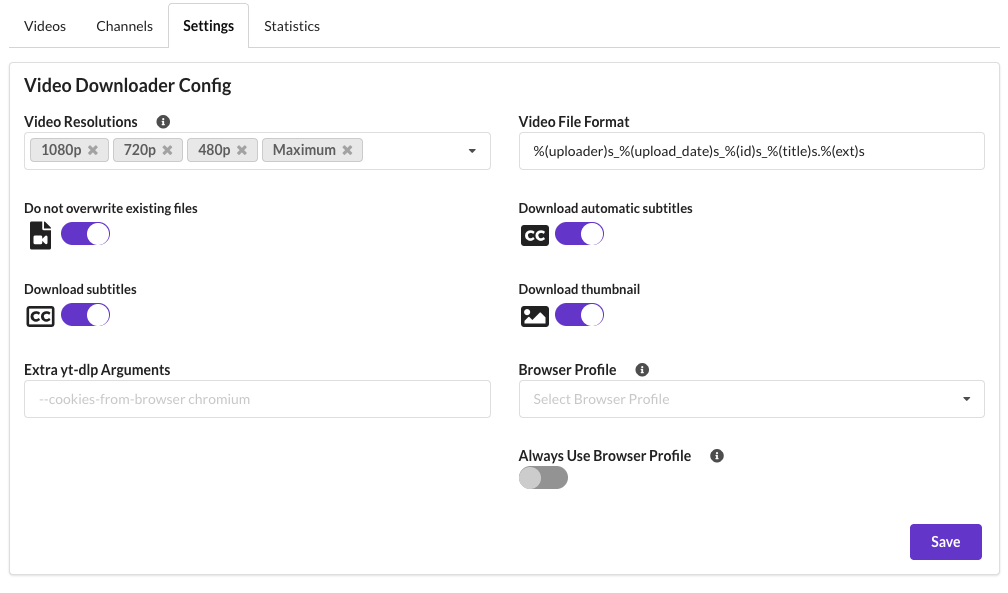
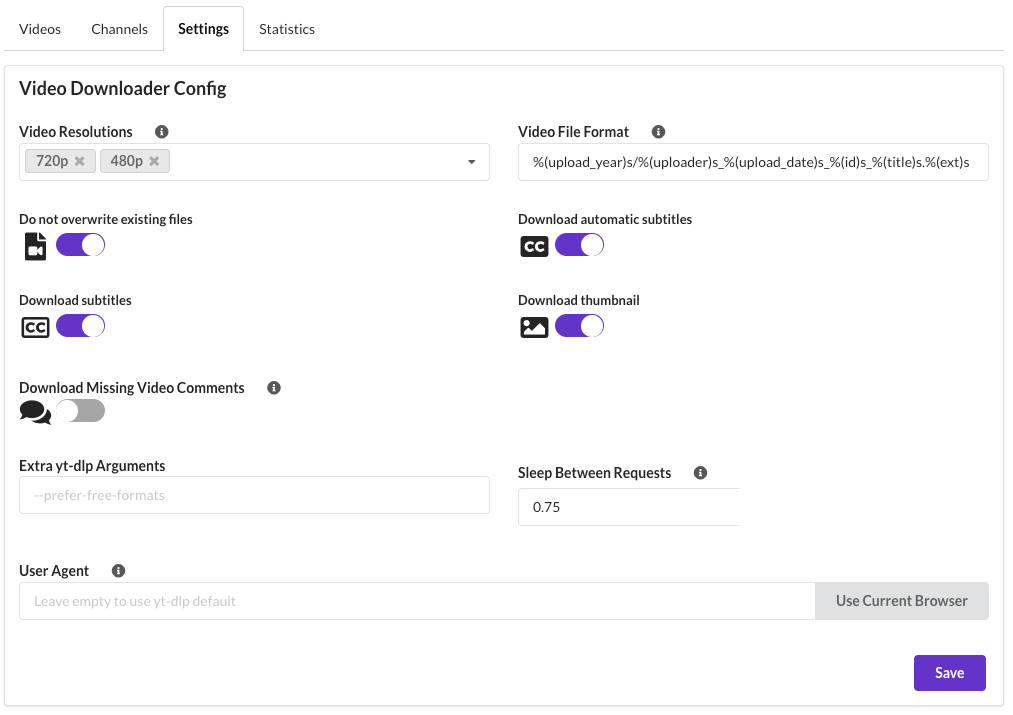
Documented encrypted cookies.

diff --git a/docs/modules/videos/cookies.md b/docs/modules/videos/cookies.md
@@ -1,0 +1,166 @@
+# Encrypted Cookies
+
+WROLPi supports encrypted cookie storage for downloading videos from sites that require
+authentication. Cookies are encrypted at rest and only decrypted to memory.
+
+## Warning! "Use as a Last Resort"
+
+Using cookies to download videos may violate the terms of service of some websites.
+Your account could be rate-limited, blocked, or banned. WROLPi is not responsible
+for any consequences of using this feature. Only use cookies when other download
+methods fail.
+
+## Why Use Cookies?
+
+Some video sites require authentication to:
+
+- Access age-restricted content
+- Download subscriber-only videos
+- Avoid rate limiting for logged-in users
+- Access private or unlisted content
+
+## Copying Cookies from Your Browser
+
+To use this feature, you need to copy cookies from a browser where you're logged
+into the video site. The easiest method is using a browser extension.
+
+### Recommended Browser Extensions
+
+#### cookies.txt (Chrome/Brave/Edge)
+
+1. Install [cookies.txt](https://chrome.google.com/webstore/detail/cookiestxt/njabckikapfpffapmjgojcnbfjonfjfg) from the Chrome Web Store
+2. Navigate to the video site and log in
+3. Click the extension icon
+4. Click **Copy** to copy the cookies to your clipboard
+
+![cookies.txt extension](cookies-txt-extension.png)
+
+#### cookies.txt (Firefox)
+
+1. Install [cookies.txt](https://addons.mozilla.org/en-US/firefox/addon/cookies-txt/) from Firefox Add-ons
+2. Navigate to the video site and log in
+3. Click the extension icon
+4. Click **Copy** to copy the cookies to your clipboard
+
+![cookies.txt Firefox extension](cookies-txt-firefox.png)
+
+## Uploading Encrypted Cookies
+
+Once you have exported your cookies:
+
+1. Navigate to **Videos > Settings**
+2. Scroll to the **Encrypted Cookies** section
+3. Paste your cookie file contents into the text area
+4. Enter a password (minimum 8 characters)
+5. Click **Encrypt & Save**
+
+![Upload encrypted cookies](cookies-upload.png)
+
+Your cookies are now encrypted and stored securely.
+
+## Unlocking Cookies for Downloads
+
+Cookies remain locked by default. To use them for downloading:
+
+1. Navigate to **Videos > Settings**
+2. In the **Encrypted Cookies** section, enter your password
+3. Click **Unlock**
+
+![Unlock cookies](cookies-unlock.png)
+
+Once unlocked:
+
+- Cookies remain available in memory until locked or system restart
+- All video downloads will automatically use the cookies
+- The cookies indicator shows "Unlocked" status
+
+## Locking Cookies
+
+To clear cookies from memory:
+
+1. Navigate to **Videos > Settings**
+2. Click **Lock** in the Encrypted Cookies section
+
+This immediately clears the decrypted cookies from memory. They remain encrypted
+on disk and can be unlocked again with your password.
+
+![Locked cookies](cookies-locked.png)
+
+## Deleting Cookies
+
+To permanently remove stored cookies:
+
+1. Navigate to **Videos > Settings**
+2. Click **Delete** in the Encrypted Cookies section
+3. Confirm the deletion
+
+This removes the encrypted cookie file. You'll need to re-export and upload cookies
+if you want to use them again.
+
+## Troubleshooting
+
+### Wrong Password
+
+If you enter an incorrect password when unlocking, you'll see an error message.
+The encrypted cookies are not modified. Try again with the correct password.
+
+### Cookies Expired
+
+Cookies have expiration dates set by the website. If downloads start failing
+after cookies worked previously:
+
+1. Log into the video site in your browser
+2. Export fresh cookies using your browser extension
+3. Upload and encrypt the new cookies (no need to delete the old cookies, they will be replaced)
+
+### Download Still Fails
+
+If downloads fail even with unlocked cookies:
+
+- Verify you copied cookies while logged in
+- Close the browser window immediately after copying cookies to prevent them from being replaced
+- Check that you copied cookies for the correct domain
+- Try a different browser or clear cookies and re-authenticate
+- Some sites may require additional authentication steps
+
+## File Locations
+
+| Item | Location |
+|------|----------|
+| Encrypted cookies | `{media_directory}/config/cookies.txt.enc` |
+| Temporary files | `/dev/shm/w_*.tmp` (RAM-based) |
+
+## Security Details
+
+WROLPi implements several security measures to protect your cookies:
+
+| Feature | Implementation |
+|---------|----------------|
+| **Encryption Algorithm** | Fernet (AES-128-CBC + HMAC-SHA256) |
+| **Key Derivation** | PBKDF2-SHA256 with 480,000 iterations |
+| **Salt** | 16 bytes random per encryption |
+| **Password Minimum** | 8 characters |
+| **Storage Location** | Encrypted file only; never plaintext on disk |
+| **Memory Storage** | RAM-based temporary files (`/dev/shm`) |
+| **Temp File Permissions** | `0o600` (owner-only) |
+| **Secure Deletion** | Overwrite with zeros before unlinking |
+
+### How Encryption Works
+
+When you upload cookies:
+
+1. A random 16-byte salt is generated
+2. Your password is combined with the salt using PBKDF2-SHA256 (480,000 iterations)
+3. The derived key encrypts your cookies using Fernet
+4. The encrypted data is stored as `cookies.txt.enc` in your config directory
+5. Your password is never stored
+
+When you unlock cookies for downloading:
+
+1. You provide your password
+2. The salt is extracted from the encrypted file
+3. Your password regenerates the encryption key
+4. Cookies are decrypted to shared memory (not disk)
+5. Each download gets a unique temporary file in `/dev/shm` (RAM)
+6. Temporary files are overwritten with zeros and deleted after use
+

diff --git a/docs/modules/videos/index.md b/docs/modules/videos/index.md
@@ -37,10 +37,6 @@ video from the WROLPi channel, then your video will be stored in `videos/WROLPi`
     * The file format the video will be encapsulated in.
         * `mp4` is the most universally compatible (but proprietary).
         * `mkv` is an open-standard media format.
-* **Use Browser Profile**
-    * A browser profile is a set of cookies and settings that are used to download videos. This is useful for
-      downloading videos from sites that require authentication or have other restrictions.
-      See [Browser Profiles](#browser-profiles)
 * **Channel Tag**
     * The selected Tag will be applied to any new Channel created in the process of downloading these videos. The
       Channel will be placed in the respective tag directory in the `videos` directory.
@@ -67,30 +63,16 @@ Behavior when downloading videos can be configured in the `Videos > Settings` pa
     * Download the thumbnail for the video, if available.
 * **Extra yt-dlp Arguments**
     * The text here will be split by spaces and passed as extra arguments to yt-dlp.
-* **Browser Profile**
-    * Shows the browser profiles available to the `wrolpi` user. This is passed as the `--cookies-from-browser` argument
-      to yt-dlp.
-* **Always Use Browser Profile**
-    * Will download videos using `--cookies-from-browser` always. This is not recommended!
+* **Sleep Between Requests**
+    * Instructs yt-dlp to sleep between metadata requests. Helps reduce potential throttling.
+* **User Agent**
+    * The browser identity sent with requests. **If using encrypted cookies, select "Use Current Browser" to match the browser your cookies came from.**
 
-## How to Use Browser Profiles
+## Authentication for Downloads
 
-Downloading videos that require authentication or have other restrictions can be done using a browser profile. This is
-done by logging in as the `wrolpi` user, and authenticating in the browser to the site you want to download from.
-
-### Steps to use a browser profile:
-
-1. Boot your Raspberry Pi.
-2. Log in as your user (possibly `pi`)
-3. Open the terminal, change the password of the wrolpi user:
-    * `sudo passwd wrolpi`
-4. Log out of your user using **Menu** > **Logout** > **Logout**
-5. Select the `wrolpi` user in the dropdown.
-6. Launch a browser (Chromium or Firefox) and log in to the site you want to download from.
-7. Navigate to your WROLPi app, you should see the browser profile you just created in `Videos > Settings`
-8. Select the browser profile you just created in `Videos > Settings` and click **Save**.
-
-You can now enable **Use Browser Profile** in the download modal.
+Some video sites require authentication to access age-restricted, subscriber-only, or private content.
+WROLPi supports [Encrypted Cookies](cookies.md) for authentication. Export cookies from your browser
+and upload them encrypted to WROLPi.
 
 ## Download Channels/Playlists
 

diff --git a/docs/index.md b/docs/index.md
@@ -22,6 +22,7 @@ Information about the parts of the WROLPi interface.
 
 * [Files](modules/files/index.md)
 * [Videos](modules/videos/index.md)
+    * [Encrypted Cookies](modules/videos/cookies.md)
 * [Archives](modules/archives/index.md)
 * [Map](modules/map/index.md)
 * [Zim](modules/zim/index.md)